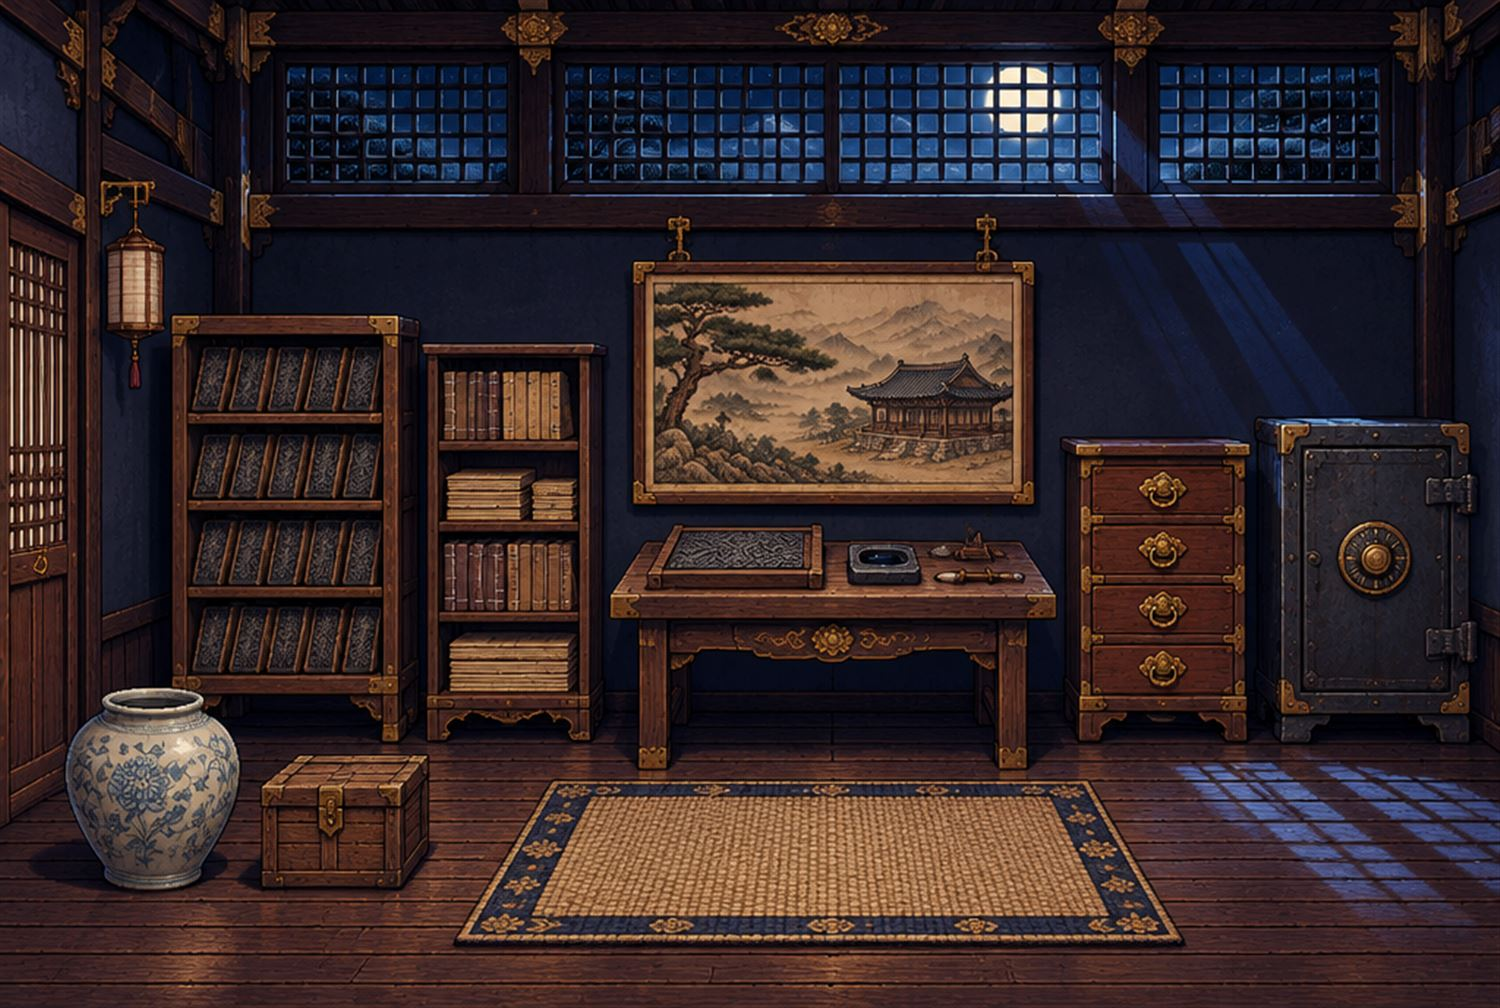
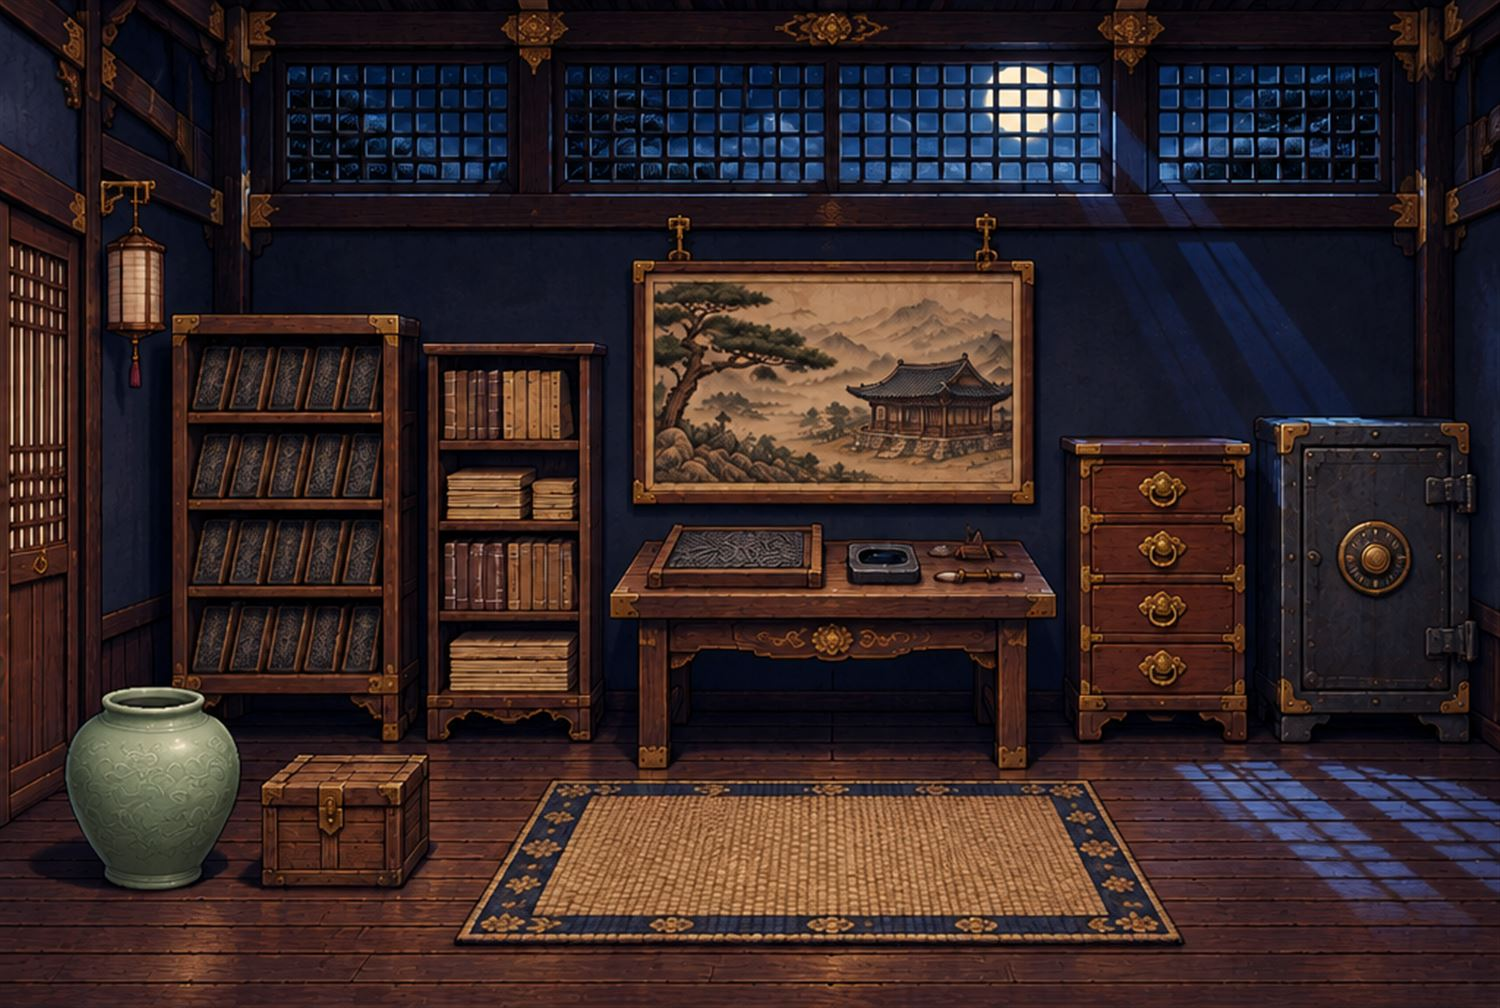
7판: 2실 항아리를 청자로(시대 맞춤), 교사용 표에 반·팀별 수장고 번호와 문제 변형, 레포 설명서

diff --git a/CLAUDE.md b/CLAUDE.md
@@ -4,7 +4,7 @@
 배포: https://hyonnie-t.github.io/culture-dig/ (GitHub Pages). 저장소는 public이다. 교사용 안내는 `학교업무\2026 대영중학교\3학년 한국사\문화사 발굴·방탈출\01_교사용_안내.md`, 3판 재설계안은 같은 폴더 `03_재설계안_1인1태블릿_2026-11-03.md`(2판 디자인 브리프는 `02_…`).
 
 ## 구조
-- `index.html` / `style.css` / `data.js`(팀·성향 테스트·점수 기준·유물·퍼즐·사진·어휘, 교과서 쪽수) / `pixels.js`(유물마다 32×32 도트 그림) / `logic.js`(판정·점수·팀 뽑기·결산·블록 배치, DOM 없음) / `app.js`(화면 흐름)
+- `index.html` / `style.css` / `scene.css`(7판 방 화면) / `data.js`(팀·성향 테스트·점수 기준·유물·퍼즐·사진·어휘, 교과서 쪽수) / `variants.js`(문제 변형 풀, `src` = 근거가 된 data.js 문장) / `scenes.js`(방 그림·누를 자리·물건) / `scene.js`(방 화면) / `pixels.js`(유물마다 32×32 도트 그림) / `logic.js`(판정·점수·팀 뽑기·결산·블록 배치, DOM 없음) / `app.js`(화면 흐름)
 - `fonts/NeoDunggeunmo.woff`: 도트 글꼴. `img/`: 유물 사진(공공누리 제1유형만, 300KB 이하) + `img/manifest.json`(출처·라이선스 근거)
 - `focus_guard.js`·`draft_guard.js`·`glossary.js`: history26 `snippets/` 사본(2026-11-02 기준)
 - `tests/logic.test.mjs`: `node --test tests/logic.test.mjs` / `tools/export_puzzles.mjs`: 교사용 표(팀·유물·사진 출처·퍼즐·팀별 수장고 번호)를 data.js에서 뽑는다 / `tools/draw_pixels.mjs`: pixels.js를 만든다 / `tools/register_lesson.mjs`: 커리큘럼 등록(이미 등록됨)
@@ -15,7 +15,15 @@
 - 팀 = 발굴 도구 4개 🖌붓·⛏곡괭이·🔍돋보기·🧭나침반 발굴단(`TEAMS`). ⓑ 수능 던전 팀(성적 균형)과 **따로**다. 성향 테스트(`QUIZ` 4문항) → `Logic.quizRanking`이 1~4지망 → 자동 제출(`문화사_팀테스트`). 학생 화면에는 팀 이름이 아니라 성향(`type`: 섬세형·끈기형·탐구형·이끄는형)만 보인다.
 - 팀 뽑기·결산은 **history26 교사 대시보드 «👥 모둠·팀» 탭의 «🏺 문화사 발굴단»**(`history26/js/09-dash-culture.js`, v142)이 한다. 대시보드가 게임활동_로그를 바로 읽고, 이 레포 `logic.js`를 배포 주소에서 불러 `Logic.drawTeams`(인원 차이 최대 1명, 1지망 수 최우선 — 헝가리안)·`Logic.teamResults`·`Logic.parseNumbers`를 쓴다. 확정 팀·결석 번호는 백엔드 시트 `문화사팀`(`cultureTeamsSave`·`mode=cultureTeams`, 교사 전용). **이 함수들의 이름·인자를 바꾸면 대시보드도 고친다.** 학생은 칠판을 보고 앱에서 팀을 고른다(`culture-dig:team:<학번>`, 모드와 상관없음).
 - 발굴: 층마다 블록 10개(5×2) 중 7개에 유물·3개는 «돌멩이뿐». 자리는 학번+층 시드(`Logic.blockLayout`). 곡괭이 탭 3번. 이름 보기는 처음부터 4지선다(2026-11-10 1차시 «너무 쉽다»로 2지선다 없앰). 흘러든 유물(`intruder`)은 «시대 + 만든 까닭» 4지선다 한 문제(`eraQ`, 정답은 note에서만, 정답 문장은 진짜 시대 이름으로 시작 — 테스트가 잡는다). 예/아니오 시대 문제(era1·era2)는 «유치하다»로 없앰. 층 순서 `DIG_ORDER` = "top-down"(표토부터, 효니 확정). 개인 점수 `Logic.digScore`.
-- 방탈출: 입장 때 «담당 전시실»(`esc.role`)을 고른다. 처음엔 담당 방만 열리고, 담당 방을 다 풀면 «도우러 가기»로 한 방(`esc.help`)을 더 연다. 다른 방 열쇠 숫자는 팀원에게 말로 받는다. 수장고 번호는 팀마다 전시실 순서가 다르다(`Logic.vaultOrder(teamIdx, n)` + `Logic.vaultCode(rooms, order)`; solo는 1실부터). 개인 점수 `Logic.escScore`(담당 방 퍼즐 힌트·오답 없이 3/그 밖 1 ×4 + 수장고 3 + 자물쇠 3 + 도움 2 = 20). 시간은 점수에 없다. solo·미리보기는 모든 방이 열린다.
+- 방탈출(7판 «장면형», 2026-11-12 효니 «전체 재설계» — 6판은 «퀴즈일 뿐»이라는 지적. 기준은 도름스 «정음: 28자의 비밀» 같은 2D 미스터리 어드벤처):
+  - 입장 때 «담당 전시실»(`esc.role`)을 고른다. 방 = 밤의 전시실 그림 1장(`img/scene/room1~4.jpg`, 힉스필드 gpt_image_2_6로 만든 AI 그림 — 실제 유물·건물이 아니라고 바닥글에 적음) + 누를 자리 10곳(`scenes.js`의 `SCENES[방 id].spots`, % 좌표. **그림을 바꾸면 좌표를 다시 잰다**).
+  - 한 방의 흐름: 어두움(손전등 = 손가락을 따라가는 빛) → 숨은 곳 3곳에서 부싯돌·서랍 열쇠·재료1 → 부싯돌로 등 켜기 → 진열장(퍼즐1)→재료2 → 서랍(열쇠, 퍼즐2)→재료3 → 작업대에 재료 3개 조합 → 세 자리 번호 → 상자(번호, 퍼즐3) → 금고: 무늬 4개 + 퍼즐4 → 열쇠 숫자 → 🕵 비밀 칸 2곳(항아리·깔개 자리, 담당 방만).
+  - **베낄 수 없게**: 학번 시드 = 문제 변형(`variants.js` `PUZZLE_ALTS` → `Logic.pickVariant`), 숨긴 자리(`Logic.hideLayout`), 작업대 번호(`Logic.comboCode`), 보기 순서. 팀 시드(반+팀, `Scene.teamSeed`) = 금고 무늬(`Logic.crossSymbols`), 열쇠 숫자(`Logic.teamKey`), 수장고 번호(`Logic.vaultCode2`, 순서는 `Logic.vaultOrder`). 퍼즐 4(숫자판)의 답과 열쇠 숫자는 다른 값이다.
+  - **엇갈린 단서**(팀 협력): i실 금고의 무늬는 다음 방(`Logic.crossSource`) 벽 그림 뒤에 있다. 그 방을 맡은 친구가 자기 화면을 보고 말로 알려 줘야 한다. 태블릿끼리 물건을 넘기는 «건네기 낱말»은 넣지 않는다(효니 «단어 자체가 이상»).
+  - 도우러 가기: 담당 방의 봉인 3개(퍼즐 1~3)를 풀면 한 방을 연다(`helpsNow`·`canHelp`·`askHelp` — 앱 안에 그린 확인 창). 도운 방을 끝내면 또 한 방을 열 수 있다(빈 방·겹친 선택으로 막히지 않게). `esc.help` = 처음 도운 방, `esc.helps` = 전부.
+  - 화면은 `scene.js`(`Scene.open`)·`scene.css`(밤의 박물관: 남색+등불 금빛). 방 안 진행은 `S.esc.sc[방 id]`({lit, got, inv, placed, combo, drawer, crate, sym}). 퍼즐 id·`S.esc.solved`·`S.esc.attempts`·`Logic.escScore`(담당 방 퍼즐 힌트·오답 없이 3/그 밖 1 ×4 + 비밀 2 + 수장고 3 + 자물쇠 3 + 도움 2 = 22)·제출 payload는 6판 그대로라 대시보드는 안 고쳤다. 시간은 점수에 없다. 6판까지의 저장본(`esc.v !== 7`)은 버린다.
+  - solo(`?solo=1`)·미리보기는 모든 방이 열린다. 미리보기에는 «해결 처리»·«바로 조합»·«통과»·«이 방 끝내기» 버튼이 있다. 소리는 기본 꺼짐(방 화면 🔇, 파일 없이 브라우저가 만드는 음).
+  - 끝까지 눌러 보는 점검: 로컬 서버에서 `?screen=escape&solo=1&sid=39999&name=시험` → 콘솔 `eval(await (await fetch("tools/e2e_scene.js")).text()); await E2E.run()` (POST는 막는다). 옛 진열장 화면(`renderPuzzle`·`#scrPuzzle`)은 안 쓰지만 남겨 두었다.
 - 팀 점수(`SCORING`, 수능 던전 재설계안 2-3과 같은 틀): 팀 평균(분모 = 출석자 전원, 미제출 0점, 결석만 뺌) → 순위 포인트 40/30/20/10(동점 같은 포인트, 다음 순위 건너뜀, `Logic.rankPoints`) + 전원 제출 +5 + 전원 탈출 +5(방탈출). 대시보드 «👥 모둠·팀» 탭의 «🏺 문화사 발굴단»이 `Logic.teamResults`로 계산.
 - 사진: `ARTIFACTS[].photo`. 공공누리 제1유형만. **그림 규칙(4판, 2026-11-09 효니 «사진·도트 통일»)**: 땅속 블록 칸은 언제나 `pixels.js` 32×32 도트(`PIXEL_ART32`/`PIXEL_PAL32`), 유물 카드·수첩·한 줄 쓰기 카드는 언제나 실제 사진. 사진이 없는 유물(j3 칠정산·j5 몽유도원도)은 도트로 대신하지 않고 `artVisual`의 «📖 교과서 n쪽» 자리. 탭하면 라이트박스 + 출처 한 줄.
 - 유연 모드: 4판에서 끔(`init`에서 `S.mode = "basic"` 고정, `?mode=flex` 무시, 첫 화면 링크 삭제). `data.js`·`logic.js`의 flex 데이터와 테스트는 대시보드·나중 재사용 때문에 남김.
@@ -30,7 +38,7 @@
 ## 규칙
 - 고치기 전에 `git fetch` 후 `origin/main`에서 임시 worktree(`git worktree add <임시폴더> -b <브랜치> origin/main`)를 만들어 작업한다. 여러 세션이 이 폴더를 같이 쓰므로 공용 폴더는 `main`으로 둔다(2026-11-08).
 - 교과서(비상 역사② 이병인) 밖 사실을 넣지 않는다. 유물·퍼즐마다 `page`를 붙인다. 팀·퍼즐·사진을 고치면 `node tools/export_puzzles.mjs`로 교사용 안내 아래쪽 표를 다시 뽑는다(안내 위쪽 1~4절은 손으로 쓴 부분).
-- 수장고 기본 번호는 전시실 순서대로 각 방 `key` 숫자(공통 8593, 유연 98593). 팀별 번호는 `vaultOrder`로 돌린 것. 방을 더하거나 순서를 바꾸면 테스트 기대값도 바꾼다.
+- 수장고 번호(7판): 팀 순서(`vaultOrder`)대로 팀별 열쇠 숫자(`Logic.vaultCode2`). 반·팀별 표는 `node tools/export_puzzles.mjs`가 뽑는다. 옛 `Logic.vaultCode`(8593)는 테스트·호환용으로만 남아 있다. 문제 변형을 고치면 `src`를 data.js 문장으로 채우고(교과서 밖 사실 금지), 쪽수를 확인 못 한 것은 넣지 않는다.
 - 제출은 기본 제출 경로. `groupId` = `3-반-팀`(solo는 `학번(개인)`). 대시보드는 `choicesJson.score.score`(발굴·방탈출)·`choicesJson.escaped`·`choicesJson.ranking`(테스트)을 읽는다(없으면 `choiceSummary`의 `점수 n`). 이 필드 이름을 바꾸면 대시보드도 고친다. 방탈출은 다시 낼 수 있고 대시보드는 같은 학번의 마지막 제출을 쓴다.
 - 학번·이름 명단을 레포에 넣지 않는다. 백엔드는 `history26_backend`, URL·ID·토큰을 새로 적지 않는다. 이 앱이 쓰는 백엔드 경로는 기본 제출뿐(팀 저장은 대시보드가).
 - 태블릿 기본(폭 3단계). 작업 브랜치 → 테스트 → 세 폭 내장 브라우저 확인 → 검토자 1회 → PR → `gh pr merge`(병합은 Claude) → 배포 주소를 내장 브라우저로 직접 확인 → 효니에게 Ctrl+F5 안내.
